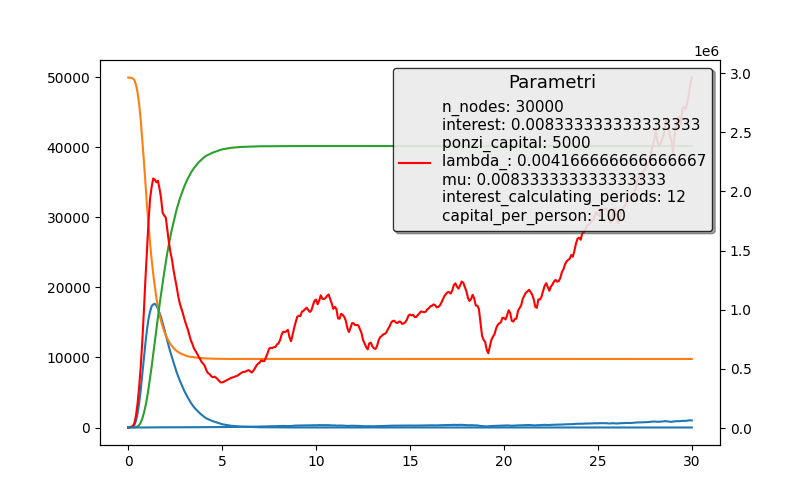
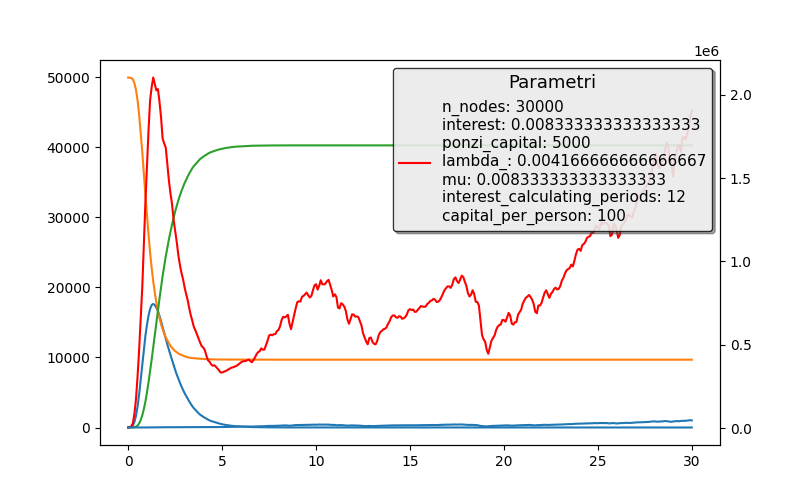
Corretto data.py per supportare integrale continuo.

diff --git a/data.py b/data.py
@@ -30,23 +30,22 @@ class Data:
         print(dict(list(self.returns_dict.items())[:5]))
 
     # Funzione per interpolare i ritorni in base al tempo t (in anni)
-    def interpolated_r_r(self, t): # t in years
-        #return 0.08
-        #return np.interp(t + 1./12, self.sp500['Years Since 1990'], self.sp500['Monthly Return'])
-        #print('before', t)
-        #t = int(np.ceil(t * 12))  # Convert years to months
-        #print('after', t)
-        #idx = np.abs(self.months_array - t).argmin()  # Find closest index
-        #print('months array is', self.months_array)
-        #print('index is ', idx)
-        #return self.returns_array[idx]
+    # def interpolated_r_r(self, t): # t in years
+    #     keys_array = np.array(list(self.returns_dict.keys()))  # Converte le chiavi in array NumPy
+    #     idx = np.abs(keys_array - t).argmin()  # Trova l'indice della chiave più vicina
+    #     closest_key = keys_array[min(idx+1, len(keys_array) - 1)]  # Ottieni la chiave effettiva
+    #     if t == 0:
+    #         closest_key = keys_array[0]
+    #     return self.returns_dict[closest_key]  # Restituisce il valore corrispondente
 
-        #t is in years
+    def interpolated_r_r(self, t):  # t in years
         keys_array = np.array(list(self.returns_dict.keys()))  # Converte le chiavi in array NumPy
         idx = np.abs(keys_array - t).argmin()  # Trova l'indice della chiave più vicina
-        closest_key = keys_array[min(idx+1, len(keys_array) - 1)]  # Ottieni la chiave effettiva
+        closest_key = keys_array[min(idx + 1, len(keys_array) - 1)]  # Ottieni la chiave effettiva
+
         if t == 0:
             closest_key = keys_array[0]
-        #if t > closest_key:
-         #   closest_key = keys_array[idx+1]
-        return self.returns_dict[closest_key]  # Restituisce il valore corrispondente
+
+        discrete_return = self.returns_dict[closest_key]
+        continuous_return = np.log(1 + discrete_return)  # Conversione in tasso continuo
+        return continuous_return

diff --git a/networks/interest_calculator.py b/networks/interest_calculator.py
@@ -17,7 +17,7 @@ class InterestCalculator:
         :param t2:
         :return:
         """
-        return starting * np.exp(quad(self.r_p, t1, t2)[0])
+        return starting * np.exp(quad(self.r_p, t1, t2, limit=30)[0])
        # sol = solve_ivp(self.func2, (t1, t2), [starting], t_eval=[t2])
         # val = starting * np.e ** quad(lambda t: self.r_r(t), t1, t2)[0]
         #print(f'realized returned: from t_1 {t1} to t_2 {t2}: {sol.y[0][-1]}')
@@ -28,7 +28,10 @@ class InterestCalculator:
         #print(g)
         return [self.r_r(t) * g[0]]
     def realized_return(self, starting, t1, t2):
+        #return starting * (self.r_r(t2) + 1)
         #print(f'calc return from {t1} to {t2}, with interest: {self.r_r(t1)}, res:', starting, ' to ', starting * np.exp(quad(self.r_r, t1, t2)[0]))
-        return starting * np.exp( quad(self.r_r, t1, t2)[0])
-        #return starting * np.exp(quad(self.r_r, t1, t2, limit=30)[0])
+        #return starting * np.exp(self.r_r(t2) * (t2 - t1))
+        #return starting * np.exp( quad(lambda t: self.r_r(t2), t1, t2)[0])
+        return starting * np.exp(quad(self.r_r, t1, t2, limit=30)[0])
         #return starting*np.e**(self.r_r(t2)*(t2 - t1))#starting + starting*self.r_r(t2)*(t2-t1)
+        #return starting + starting * self.r_r(t2) * (t2 - t1)

diff --git a/ponzi_simulation.py b/ponzi_simulation.py
@@ -87,7 +87,6 @@ class PonziSimulation:
                     exit_capital = self.interest_calculator.promised_return_at_time(self.capital_per_person,
                                                                                node.time_joined * self.dt,
                                                                                time * self.dt)  # self.capital_per_person
-                    print(f'joined at {node.time_joined * self.dt}, left at {time*self.dt} with {exit_capital}')
                     self.network.capital_array[i] += exit_capital
                     ponzi.capital -= exit_capital
                     node.status = NodeStatus.DEINVESTOR

diff --git a/main_2.py b/main_2.py
@@ -124,8 +124,8 @@ for (name, net) in list.items():
         #print('calculated ', x_vals[i], made_interest[i])
     print('ending with investors', investor[-1])
     #print(x_vals, made_interest)
-    ax2.plot(x_vals, made_interest)
-
+    #ax2.plot(x_vals, [interest_calculator.realized_return() for i in range(len(x_vals))])
+    ax2.plot(x_vals, made_interest, color='black')
     build_legend(plt)
     plt.savefig(f'imgs/{name}.png')
     plt.show()

diff --git a/networks/network.py b/networks/network.py
@@ -97,6 +97,7 @@ class Network:
     @staticmethod
     def load_json(filename="network.json"):
         """Carica il network da un file JSON e lo ricostruisce."""
+        """Carica il network da un file JSON e lo ricostruisce."""
         with open(filename, "r") as f:
             data = json.load(f)
 
